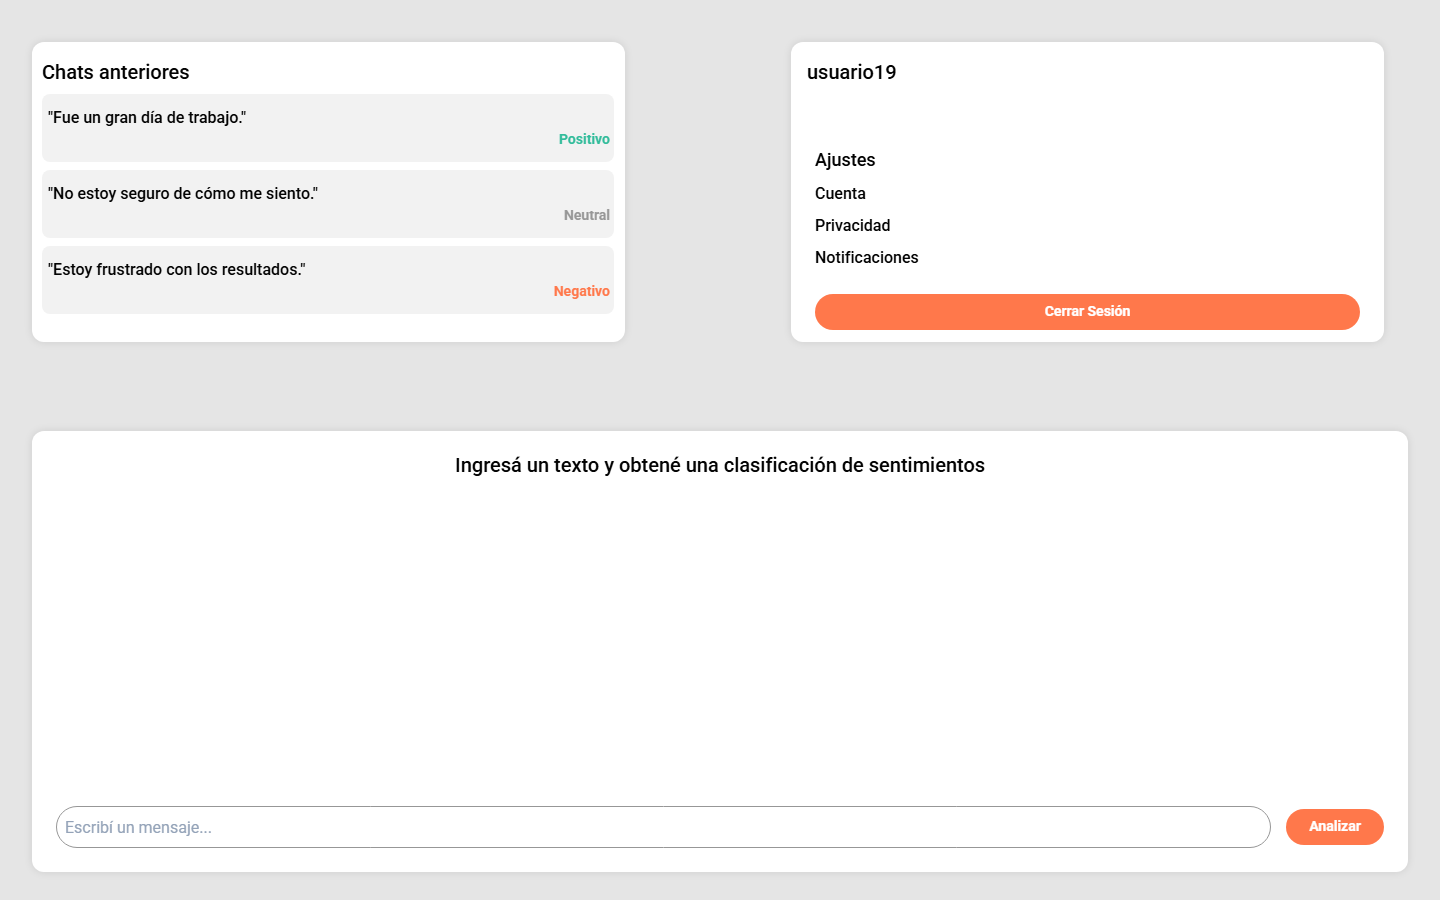
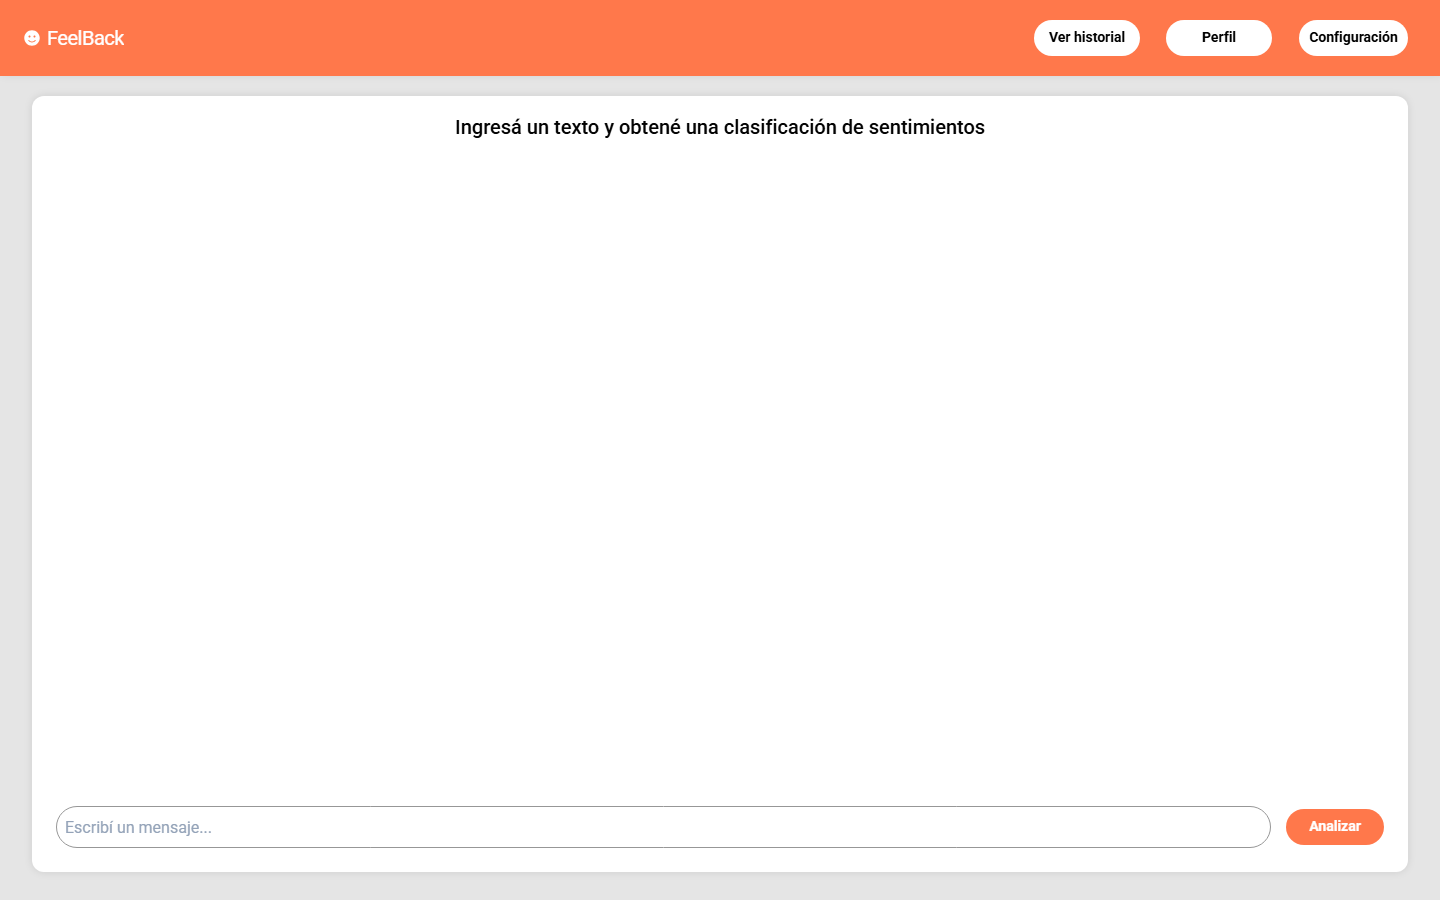
Adición de nuevas páginas y modificación de antiguas.

Changed region(s): [[0.0, 0.0, 1.0, 0.5289], [0.0312, 0.28, 0.2188, 0.3111], [0.0312, 0.1867, 0.2188, 0.2178]]

diff --git a/app/model/model.py b/app/model/model.py
@@ -1,1 +1,4 @@
-# model.py
+
+    
+    
+

diff --git a/README.md b/README.md
@@ -87,6 +87,18 @@ La página de inicio presenta la interfaz de autenticación donde los usuarios p
 - **Validación**: Mensajes de error y confirmación para guiar al usuario
 - **Diseño Responsivo**: Interfaz adaptable a diferentes tamaños de pantalla
 
+### Página de Registro
+La página de registro permite a los nuevos usuarios crear una cuenta en el sistema FeelBack. Presenta un formulario claro y estructurado que solicita la información necesaria para establecer una nueva cuenta de usuario con todas las validaciones correspondientes.
+
+![Página registro](./img/pagina_registro_cuenta_nueva.png)
+
+**Componentes principales:**
+- **Formulario de Registro**: Campos específicos para crear una cuenta nueva (nombre, email, contraseña)
+- **Validación de Datos**: Verificación en tiempo real de formato de email y fortaleza de contraseña
+- **Términos y Condiciones**: Checkbox para aceptar los términos de uso del servicio
+- **Botón de Creación**: Acción principal para completar el proceso de registro
+- **Enlace de Retorno**: Opción para volver al formulario de inicio de sesión
+
 ### Página de Interacción
 La página principal de la aplicación presenta una interfaz tipo chat donde los usuarios pueden ingresar sus comentarios y recibir análisis de sentimientos en tiempo real. El diseño intuitivo permite una experiencia de usuario fluida y natural.
 
@@ -95,8 +107,23 @@ La página principal de la aplicación presenta una interfaz tipo chat donde los
 **Componentes principales:**
 - **Área de Chat**: Interfaz conversacional para ingresar comentarios y ver respuestas
 - **Panel de Resultados**: Muestra la clasificación del sentimiento (positivo, negativo, neutral)
-- **Historial de Análisis**: Lista cronológica de análisis previos del usuario
+- **Historial de Análisis**: Opción para acceder a lista cronológica de análisis previos del usuario
 - **Indicadores Visuales**: Colores y iconos que representan cada tipo de sentimiento
 - **Campo de Entrada**: Área de texto para escribir comentarios a analizar
 - **Botón de Análisis**: Envía el texto al modelo de PyTorch para su procesamiento
 - **Opciones de Usuario**: Navegación y logout para gestión de sesión
+
+
+### Página de Historial
+La página de historial proporciona a los usuarios una vista completa de todos sus análisis de sentimientos previos. Esta interfaz permite revisar el progreso temporal y las tendencias en los análisis realizados, facilitando el seguimiento de la evolución de los comentarios y su clasificación emocional.
+
+![Página historial](./img/pagina_historial.png)
+
+**Componentes principales:**
+- **Lista de Análisis**: Registro de todos los comentarios analizados por el usuario
+- **Clasificación Visual**: Indicadores claros del sentimiento detectado (positivo, negativo, neutral)
+- **Fecha y Hora**: Timestamp preciso de cada análisis realizado
+- **Texto Original**: Muestra completa del comentario que fue analizado
+- **Filtros de Búsqueda**: Herramientas para filtrar análisis por fecha o tipo de sentimiento
+- **Paginación**: Navegación eficiente para grandes volúmenes de datos históricos
+- **Opciones de Exportación**: Posibilidad de descargar el historial en formato CSV
